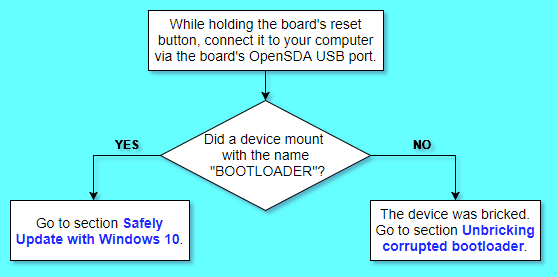
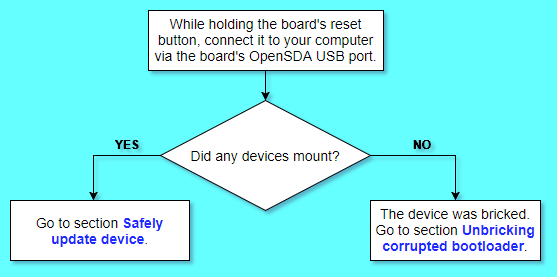
Updated guide to be OS agnostic.

Changed region(s): [[0.3357, 0.4621, 0.6104, 0.6354], [0.0305, 0.8375, 0.3357, 0.8953]]

diff --git a/unbricking_guide.md b/unbricking_guide.md
@@ -1,11 +1,11 @@
 # Unbricking and Updating Corrupted mbed Devices
-An older version of DAPLink can potentially brick your microcontroller if you attempt to update its firmware on a Windows 10 machine. When bricked, the application on your device will no longer execute and the device itself will no longer mount in your OS. The bricking is a result of the device's bootloader getting corrupted during the flashing process. We have witnessed the bricking occur on select NXP/Freescale microcontrollers that are packaged with this specific version of DAPLink. If you believe your device is bricked, or worried that it may become bricked, this guide will help you in recovering and updating your board properly.
+Microcontrollers with older firmwares can potentially have their bootloaders bricked or interfaces corrupted if you attempt to update the device on a Windows 8 or Windows 10 machine. When the interface is corrupted, the application on your device will no longer execute, and depending on whether or not the bootloader was actually bricked, the device itself will no longer mount in your OS. This bricking is a result of the device's DAPLink(CMSIS_DAP) bootloader getting overwritten during an interface update. We have witnessed the bricking occur on select NXP/Freescale microcontrollers that are packaged with older firmwares. If you believe your device is bricked, or worried that it may become bricked, this guide will help you in recovering and updating your board properly.
 
 Fear not, the procedures outlined in this document will NOT cause your board to get bricked. Begin by following the flowchart below to determine what needs to be done to recover and/or safely update the DAPLink firmware on your board.
 
 ![](images/flowchart.png "Flowchart used to determine status of board")
 
-If the flowchart has determined that your board is _bricked_, then follow the steps in the section `Unbricking corrupted bootloader`. If your device is not bricked, then follow the steps outlined in the section `Safely update with Windows 10`.
+If the flowchart has determined that your board is _bricked_, then follow the steps in the section `Unbricking corrupted bootloader`. If your device is not bricked, then follow the steps outlined in the section `Safely update device`.
 
 ## Unbricking corrupted bootloader
 Follow the steps in this section if the flowchart at the beginning of the document determined that your board's bootloader has been bricked. Alternatively, if you already have access to a [Segger J-Link](https://www.segger.com/products/debug-probes/j-link/), a [P&E Multilink](http://www.pemicro.com/products/product_viewDetails.cfm?product_id=15320137&productTab=1), or a [FRDM Development Board](http://www.nxp.com/products/software-and-tools/hardware-development-tools/freedom-development-boards:FREDEVPLA), you can follow the steps outline in the tutorial found [here](https://mcuoneclipse.com/2016/06/26/how-to-recover-the-opensda-v2-x-bootloader/). If you follow said tutorial instead, please recover your board using the _DAPlink firmware_ linked in the `Required items` section below.
@@ -28,7 +28,7 @@ Locate the 10-pin header associated with your board's k20dx flash. Usually, the 
 ![](images/connected.png "Connecting the debugger to the bricked board")
 
 ### Step 3: Flashing bricked board
-Now you are ready to flash the bricked board with the updated DAPLink firmware that is linked in the `Required items` section of this tutorial. This updated version of DAPLink will properly restore your bricked device and prevent future bricking. To run pyOCD's flashtool, use the command below (run with superuser privileges if using a Linux machine). Note, replace `<PATH TO DAPLINK BINARY>` with file location of the DAPLink binary on your system.
+Now you are ready to flash the bricked board with the updated DAPLink firmware that is linked in the `Required items` section of this tutorial. This updated version of DAPLink will properly restore your bricked device. To run pyOCD's flashtool, use the command below (run with superuser privileges if using a Linux machine). Note, replace `<PATH TO DAPLINK BINARY>` with file location of the DAPLink binary on your system.
 
 `pyocd-flashtool <PATH TO DAPLINK BINARY> -t k20d50m`
 
@@ -67,15 +67,16 @@ INFO:root:Programmed 131072 bytes (128 pages) at 25.32 kB/s
 ### Step 4: Verify
 Now, unplug and replug the board into your computer normally (without holding down the reset button). The device mounts normally, and the update is complete.
 
-## Safely update with Windows 10
-If the flowchart in the beginning of the document sent you to this section, then follow the steps below to safely update your device on a Windows 10 machine.
+## Safely update device
+If the flowchart at the beginning of the document sent you to this section, then use the flowchart below to determine the remaining steps needed to safely update your device.
+
+![](images/os_flowchart.png "Determine steps needed to update device.")
 
 ### Required items
-* Windows 10 machine
 * [DAPLink firmware](TODO: NEED TO UPDATE ONCE NEW DAPLINK IS RELEASED).
 
 ### Step 1: Disable storage services
-Right click the _Start Button_ in Windows 10, and then left click _Run_. Once the run prompt opens, type in ```services.msc``` and click the _OK_ button.
+On your Windows 8/10 machine, press and hold the Windows Logo Key and then press R. This will open the windows _Run_ prompt. Once the _Run_ prompt opens, type in ```services.msc``` and click the _OK_ button.
 
 ![](images/run.png "Open up the services application.")
 
@@ -88,7 +89,7 @@ Storage Service Properties is now open. Click the button named _Stop_.
 ![](images/stop.png "Storage Service settings with the Stop button highlighted.")
 
 ### Step 2: Update firmware
-While holding the board's reset button, connect it to your computer via the board's OpenSDA UDB port. A device will mount with the name _BOOTLOADER_. Open up the _BOOTLOADER_ directory, and then drag and drop the firmware that is linked in the `Required items` section of this tutorial. The board will begin the updating process.
+While holding the board's reset button, connect it to your computer via the board's OpenSDA UDB port. A device will mount with either the name _BOOTLOADER_, _MAINTENANCE_, or something similar. Open up this device's directory, and then drag and drop the firmware that is linked in the `Required items` section of this tutorial. The board will begin the updating process.
 
 ### Step 3: Verify
 Allow the update a few seconds to complete, and then unplug and replug the board into your computer normally (without holding down the reset button). The device mounts normally, and the update is complete.
